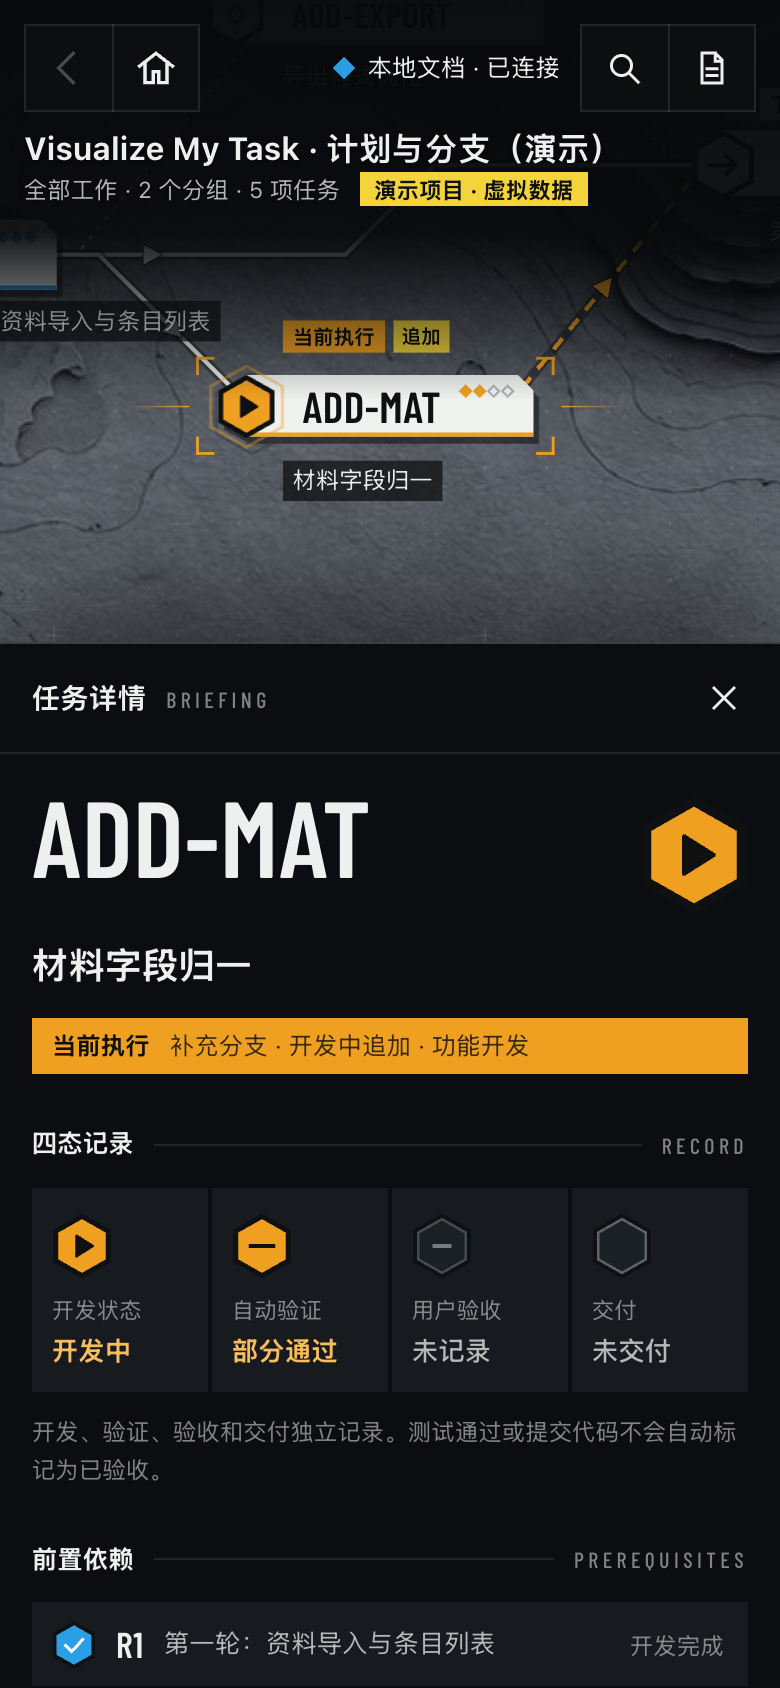
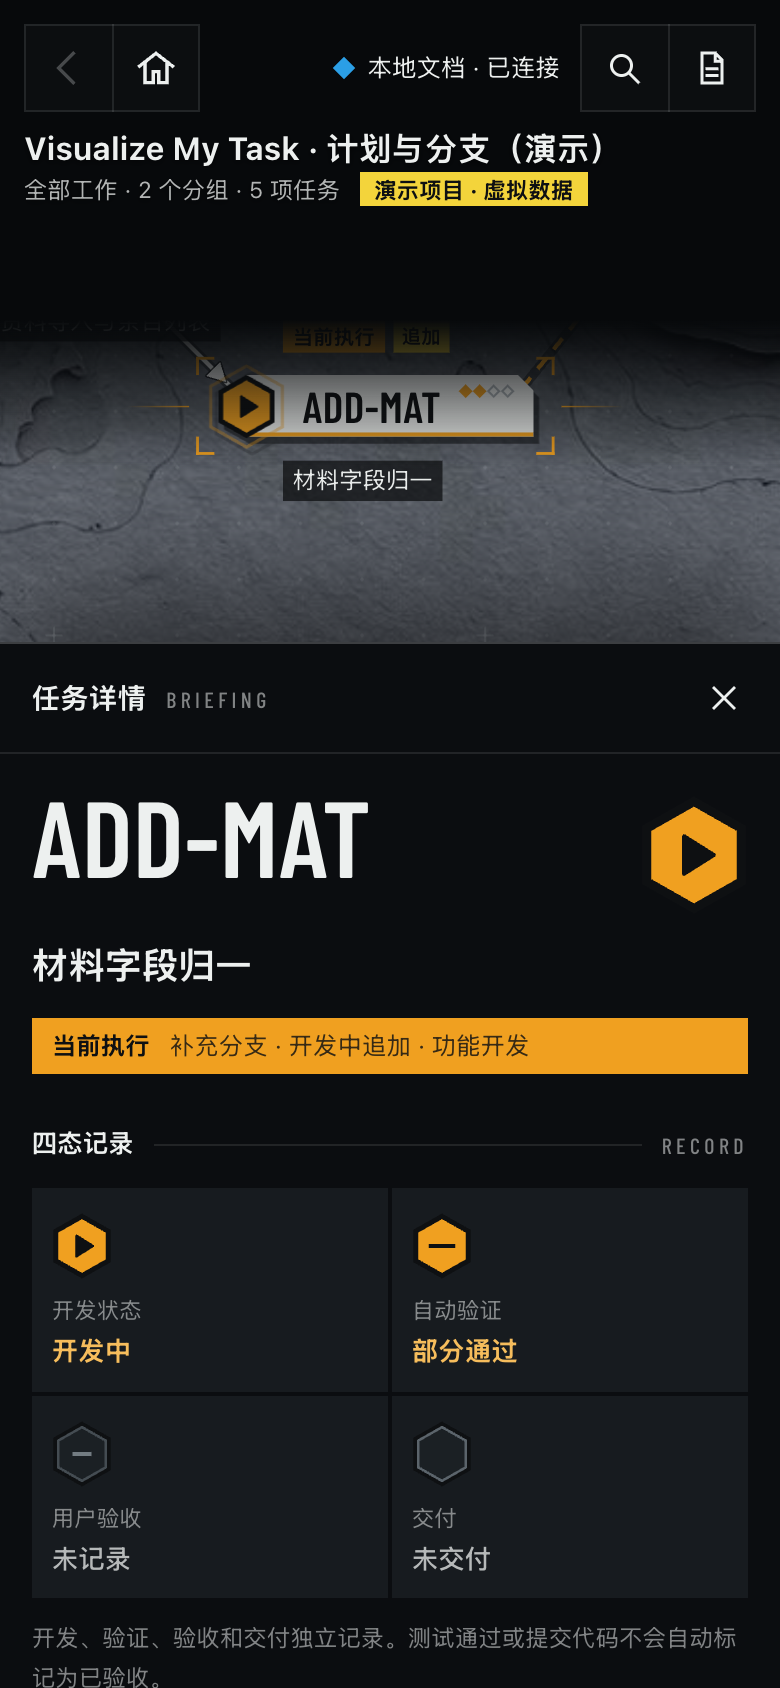
docs: show the English interface in the English README
The English README showed screenshots of the Chinese interface. It now has
its own set in docs/images/en, captured with --lang en from English
translations of the same synthetic cases (same IDs, states and relations,
checked with --check). The Chinese set was retaken from the same code.

Capturing in English exposed layout problems that longer text causes:

- Route direction marks could land on a task caption; they now move along
  the route to a spot clear of captions and tags, and re-place on zoom.
- Fit and framing used a fixed plate width, so long captions slid under the
  zoom toolbar; bounds now use each caption's rendered extent, and an open
  panel also leaves room for the toolbar beside it.
- On phones the two-row header let map text read through it, and the
  four-state record broke words such as "Unrecorded" mid-word; the header
  veil is now solid behind the bar and the record uses a 2x2 grid.

diff --git a/visualize-my-task/assets/index.html b/visualize-my-task/assets/index.html
@@ -323,7 +323,7 @@ radial-gradient(130% 100% at 50% 48%,transparent 42%,rgba(7,9,11,.62) 100%)}
     .record-cell .hex{width:30px;height:34px}
     :lang(en) .record-cell dt span:last-child{min-height:2.6em}
     .record-cell dt{display:grid;gap:8px;font-size:11px;color:var(--fg-3);line-height:1.3}
-    .record-cell dd{margin-top:2px;font-size:13px;font-weight:650;line-height:1.35;overflow-wrap:anywhere}
+    .record-cell dd{margin-top:2px;font-size:13px;font-weight:650;line-height:1.35;overflow-wrap:break-word}
     .record-cell[data-kind="on"] dd{color:#7cc8f6}
     .record-cell[data-kind="active"] dd,.record-cell[data-kind="part"] dd{color:#f6bd5c}
     .record-cell[data-kind="bad"] dd{color:#f08a78}
@@ -433,7 +433,9 @@ radial-gradient(130% 100% at 50% 48%,transparent 42%,rgba(7,9,11,.62) 100%)}
       .panel-tabs{padding:0 16px}
       .dossier-id{font-size:54px}
       .error-toast{top:112px}
-      .veil.top{height:200px}
+      .veil.top{height:236px;background:linear-gradient(180deg,#07090b 0,#07090b 160px,transparent 100%)}
+      .record{grid-template-columns:repeat(2,minmax(0,1fr))}
+      :lang(en) .record-cell dt span:last-child{min-height:0}
       .veil.bottom{height:190px}
       body.panel-open .empty-map{display:none}
     }
@@ -585,7 +587,7 @@ radial-gradient(130% 100% at 50% 48%,transparent 42%,rgba(7,9,11,.62) 100%)}
     let plan=null,mission=null,revision=null,busy=false,lastSuccess=0,stale=true,initial=true,errorDismissed=false;
     let selectedKey=null,selectedGroup='all',selectedView='all',filter='all',utilityTab='tasks',keyboardNavigation=false;
     let byKey=new Map(),positions=new Map(),columnOf=new Map(),zones=[],selectionHistory=[],fingerprints=new Map();
-    let camera={x:0,y:0,z:1},flight=0,flightTimer=0,zoomBand='',captionScale='',autoFrame=null,linked=false;
+    let camera={x:0,y:0,z:1},flight=0,flightTimer=0,zoomBand='',captionScale='',arrowRoutes=[],autoFrame=null,linked=false;
     let labels={},workstreamLabels={},fieldLabels={};
     const nodeElements=new Map();
 
@@ -684,7 +686,7 @@ radial-gradient(130% 100% at 50% 48%,transparent 42%,rgba(7,9,11,.62) 100%)}
       $('zoom-in').disabled=camera.z>=ZOOM.max-.001;$('zoom-out').disabled=camera.z<=ZOOM.min+.001;
       const band=camera.z<.46?'far':'near',caption=clamp(.92/camera.z,1,1.7).toFixed(2);
       if(band!==zoomBand){zoomBand=band;$('map-plane').dataset.zoom=band;}
-      if(caption!==captionScale){captionScale=caption;$('map-plane').style.setProperty('--caption',caption);}
+      if(caption!==captionScale){captionScale=caption;$('map-plane').style.setProperty('--caption',caption);placeArrows();}
       const pad=value=>String(Math.round(value)).padStart(4,'0');
       $('readout').textContent=`X ${pad((window.innerWidth/2-camera.x)/camera.z)} · Y ${pad((window.innerHeight/2-camera.y)/camera.z)} · ${Math.round(camera.z*100)}%`;
     }
@@ -708,7 +710,7 @@ radial-gradient(130% 100% at 50% 48%,transparent 42%,rgba(7,9,11,.62) 100%)}
       let left=small?10:28,right=width-(small?10:86);
       let top=Math.max($('workspace-nav').getBoundingClientRect().bottom,document.querySelector('.project').getBoundingClientRect().bottom)+18,bottom=document.querySelector('.bottom-hud').getBoundingClientRect().top-20;
       const panel=[$('dossier'),$('utility')].find(node=>!node.hidden);
-      if(panel){if(small)bottom=Math.min(bottom,height-panel.offsetHeight-14);else right=Math.min(right,width-panel.offsetWidth-30);}
+      if(panel){if(small)bottom=Math.min(bottom,height-panel.offsetHeight-14);else right=Math.min(right,width-panel.offsetWidth-86);}
       else if(!$('legend').hidden&&width>900)right=Math.min(right,$('legend').getBoundingClientRect().left-24);
       if(bottom-top<150){top=Math.min(top,height*.28);bottom=Math.max(bottom,top+150);}
       return {left,right,top,bottom,cx:(left+right)/2,cy:(top+bottom)/2,width:right-left,height:bottom-top};
@@ -716,7 +718,14 @@ radial-gradient(130% 100% at 50% 48%,transparent 42%,rgba(7,9,11,.62) 100%)}
     function boundsOf(keys){
       const points=keys.map(key=>positions.get(key)).filter(Boolean);
       if(!points.length)return null;
-      return {minX:Math.min(...points.map(p=>p.x))-BOX.left,maxX:Math.max(...points.map(p=>p.x))+BOX.right,minY:Math.min(...points.map(p=>p.y))-BOX.up-24,maxY:Math.max(...points.map(p=>p.y))+BOX.down};
+      // Captions can reach past the plate (longer in English), so use the rendered extent when the plate exists.
+      const reach=keys.map(key=>{
+        const point=positions.get(key),stage=nodeElements.get(key),name=stage?.querySelector('.stage-name');
+        if(!point||!name||!name.offsetWidth)return {right:point?point.x+BOX.right:-Infinity,bottom:point?point.y+BOX.down:-Infinity};
+        const left=point.x-stage.offsetWidth/2,top=point.y-stage.offsetHeight/2;
+        return {right:Math.max(point.x+BOX.right,left+name.offsetLeft+name.offsetWidth+8),bottom:Math.max(point.y+BOX.down,top+name.offsetTop+name.offsetHeight+16)};
+      });
+      return {minX:Math.min(...points.map(p=>p.x))-BOX.left,maxX:Math.max(...reach.map(r=>r.right)),minY:Math.min(...points.map(p=>p.y))-BOX.up-24,maxY:Math.max(...reach.map(r=>r.bottom))};
     }
     function fitZoom(keys){const bounds=boundsOf(keys),view=safeRect();return bounds?Math.min(view.width/(bounds.maxX-bounds.minX),view.height/(bounds.maxY-bounds.minY)):1;}
     function frame(keys,{maxZoom=1,minZoom=ZOOM.min,animate=true}={}){
@@ -857,6 +866,27 @@ radial-gradient(130% 100% at 50% 48%,transparent 42%,rgba(7,9,11,.62) 100%)}
       const [x1,y1]=points[best-1],[x2,y2]=points[best];
       return {x:(x1+x2)/2,y:(y1+y2)/2,angle:Math.atan2(y2-y1,x2-x1)*180/Math.PI};
     }
+    // Captions vary with language and zoom, so direction marks move off any caption they would land on once the plates are in the DOM.
+    function placeArrows(){
+      if(!arrowRoutes.length)return;
+      const plane=$('map-plane').getBoundingClientRect(),z=camera.z||1,boxes=[];
+      for(const node of document.querySelectorAll('#stages .stage-name,#stages .stage-top')){
+        const r=node.getBoundingClientRect();
+        if(r.width&&r.height)boxes.push({l:(r.left-plane.left)/z-10,t:(r.top-plane.top)/z-12,r:(r.right-plane.left)/z+10,b:(r.bottom-plane.top)/z+12});
+      }
+      const clear=(x,y)=>!boxes.some(box=>x>box.l&&x<box.r&&y>box.t&&y<box.b);
+      for(const {arrow,points} of arrowRoutes){
+        const segments=points.slice(1).map((point,index)=>[points[index],point]).sort((a,b)=>Math.hypot(b[1][0]-b[0][0],b[1][1]-b[0][1])-Math.hypot(a[1][0]-a[0][0],a[1][1]-a[0][1]));
+        let spot=null;
+        for(const [[x1,y1],[x2,y2]] of segments){
+          if(Math.hypot(x2-x1,y2-y1)<36)continue;
+          for(const t of [.5,.35,.65,.2,.8]){const x=x1+(x2-x1)*t,y=y1+(y2-y1)*t;if(clear(x,y)){spot={x,y,angle:Math.atan2(y2-y1,x2-x1)*180/Math.PI};break;}}
+          if(spot)break;
+        }
+        spot??=arrowAnchor(points);
+        arrow.setAttribute('transform',`translate(${Math.round(spot.x)} ${Math.round(spot.y)}) rotate(${Math.round(spot.angle)})`);
+      }
+    }
     function renderRoutes(){
       const strength={dependency:3,sequence:2,attachment:1},strongest=new Map();
       for(const edge of mission.edges){
@@ -864,7 +894,7 @@ radial-gradient(130% 100% at 50% 48%,transparent 42%,rgba(7,9,11,.62) 100%)}
         const kind=strength[edge.kind]?edge.kind:'dependency',pair=JSON.stringify([edge.from,edge.to]);
         if(!strongest.has(pair)||strength[kind]>strength[strongest.get(pair).kind])strongest.set(pair,{from:edge.from,to:edge.to,kind});
       }
-      const lanes={above:0,below:0},fragment=document.createDocumentFragment();
+      const lanes={above:0,below:0},fragment=document.createDocumentFragment();arrowRoutes=[];
       for(const edge of [...strongest.values()].sort((a,b)=>strength[a.kind]-strength[b.kind])){
         const a=positions.get(edge.from),b=positions.get(edge.to);
         let points=elbow(a,b);
@@ -878,8 +908,8 @@ radial-gradient(130% 100% at 50% 48%,transparent 42%,rgba(7,9,11,.62) 100%)}
         if(edge.kind!=='attachment')group.append(svg('path',{class:'route-halo',d}));
         group.append(svg('path',{class:'route-path '+edge.kind+tone,d}));
         if(edge.kind!=='attachment'){
-          const middle=arrowAnchor(points);
-          group.append(svg('path',{class:'route-arrow'+tone,d:'M-6 -7 7 0-6 7Z',transform:`translate(${Math.round(middle.x)} ${Math.round(middle.y)}) rotate(${Math.round(middle.angle)})`}));
+          const middle=arrowAnchor(points),arrow=svg('path',{class:'route-arrow'+tone,d:'M-6 -7 7 0-6 7Z',transform:`translate(${Math.round(middle.x)} ${Math.round(middle.y)}) rotate(${Math.round(middle.angle)})`});
+          group.append(arrow);arrowRoutes.push({arrow,points});
         }
         fragment.append(group);
       }
@@ -921,7 +951,7 @@ radial-gradient(130% 100% at 50% 48%,transparent 42%,rgba(7,9,11,.62) 100%)}
       nodeElements.clear();
       $('stages').replaceChildren(...visibleNodes().map(createStage));
       for(const key of changed)nodeElements.get(key)?.classList.add('updated');
-      updateSelection();applyFilter();
+      updateSelection();applyFilter();placeArrows();
       if(focusedKey)nodeElements.get(focusedKey)?.focus({preventScroll:true});
     }
     function updateSelection(){

diff --git a/README.md b/README.md
@@ -16,9 +16,9 @@ See what is in progress, what comes next, and what still needs acceptance. Keep 
 
 [Download](https://github.com/AlexShen-Oguri/visualize-my-task/releases/latest) · [Quick start](#quick-start) · [Screenshots](#screenshots) · [Example cases](visualize-my-task/examples/cases/README.md)
 
-![An actual task map showing three development rounds, the current added task, and parallel branches](docs/images/overview.png)
+![An actual task map showing three development rounds, the current added task, and parallel branches](docs/images/en/overview.png)
 
-*Actual browser screenshot from v1.1.0 using a bundled synthetic example. Both added tasks sit between the first and second rounds; only required work blocks the second round. The screenshots on this page show the Chinese interface.*
+*Actual browser screenshot of the English interface, using an English translation of a bundled synthetic example. Both added tasks sit between the first and second rounds; only required work blocks the second round.*
 
 ## Keep up as the plan grows
 
@@ -40,11 +40,11 @@ When the records do not establish a relationship, the board keeps it unknown or 
 
 ## Screenshots
 
-All five screenshots on this page are actual browser captures of v1.1.0, using bundled synthetic cases. They contain no private project records. Click an image to open the full-size version.
+All five screenshots on this page are actual browser captures of the English interface (`--lang en`) from the current `main` branch. The bundled synthetic cases are written in Chinese, so these captures use English translations of the same cases, with the same task IDs, states, and relations. They contain no private project records. Click an image to open the full-size version.
 
 ### Implemented and tested can still mean awaiting acceptance
 
-![Four independent task states: development done, automated verification passed, user acceptance pending, and not yet delivered](docs/images/task-details.png)
+![Four independent task states: development done, automated verification passed, user acceptance pending, and not yet delivered](docs/images/en/task-details.png)
 
 `P-01` is implemented and has passed automated verification. User acceptance and delivery remain separate records. Passing tests or pushing code does not automatically mark the task as accepted.
 
@@ -52,19 +52,19 @@ The four marks at the top right of each task plate stand for development, verifi
 
 ### Release work retains its prerequisites across maps
 
-![A release task showing prerequisites from development and security review, plus its candidate version scope](docs/images/workstreams.png)
+![A release task showing prerequisites from development and security review, plus its candidate version scope](docs/images/en/workstreams.png)
 
 `REL-01` waits for both a feature task and a security review. Those dependencies stay visible in the release map; select a prerequisite to open its map. `v0.6.0-rc1` is the example's candidate version.
 
 ### Start with reference material when there is no plan yet
 
-![A project with specifications only, showing an empty task state and the source reference panel](docs/images/spec-reference.png)
+![A project with specifications only, showing an empty task state and the source reference panel](docs/images/en/spec-reference.png)
 
 If a project only has specifications, you can read its original requirements and acceptance criteria. Checked specification items do not become completed tasks. Opening the board for an existing project does not automatically create a plan.
 
 ### Check the current task on your phone
 
-<img src="docs/images/mobile.png" alt="Actual browser capture at a 390-pixel mobile viewport, showing the current added task and its independent states" width="320">
+<img src="docs/images/en/mobile.png" alt="Actual browser capture at a 390-pixel mobile viewport, showing the current added task and its independent states" width="320">
 
 The mobile layout keeps map browsing and task details available, including the current task, its sources, and its states. This capture uses a 390-pixel browser viewport.
 
@@ -153,7 +153,7 @@ The interface can follow the project's Chinese or English language. Task names, 
 
 ## Verification record
 
-The local `v1.2.0` checks ran on macOS with Node.js 24.21.0. The table retains the version for each result. The 165 HTTP, input boundary, and browser security checks are from `v1.0.0`. The screenshots remain from `v1.1.0`, covering five display scenarios and desktop and mobile viewports.
+The local `v1.2.0` checks ran on macOS with Node.js 24.21.0. The table retains the version for each result. The 165 HTTP, input boundary, and browser security checks are from `v1.0.0`. The screenshots were retaken from the `main` branch after `v1.2.0`, covering five display scenarios and desktop and mobile viewports.
 
 | Check | Result | Run against |
 | --- | --- | --- |
